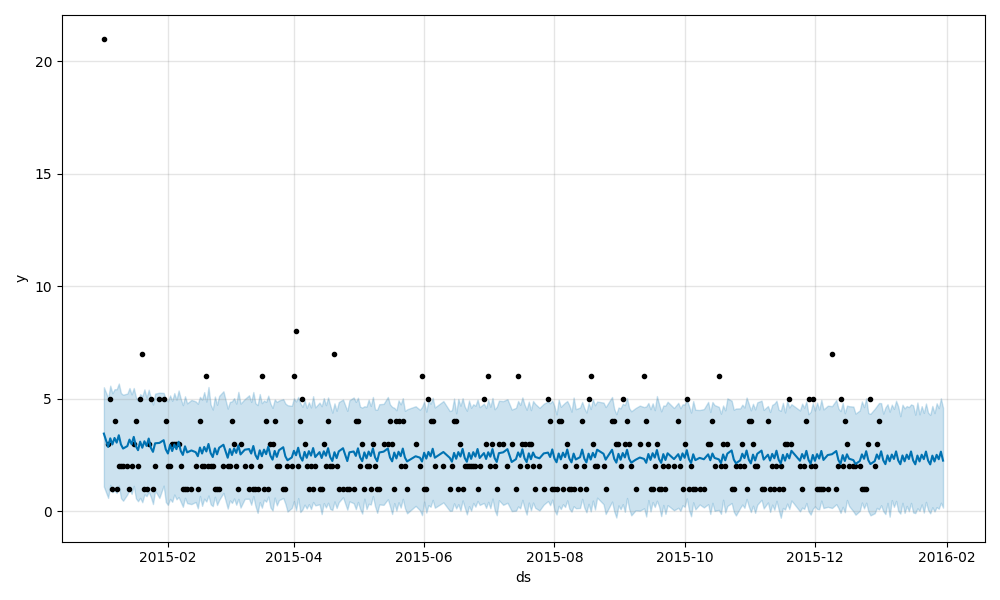
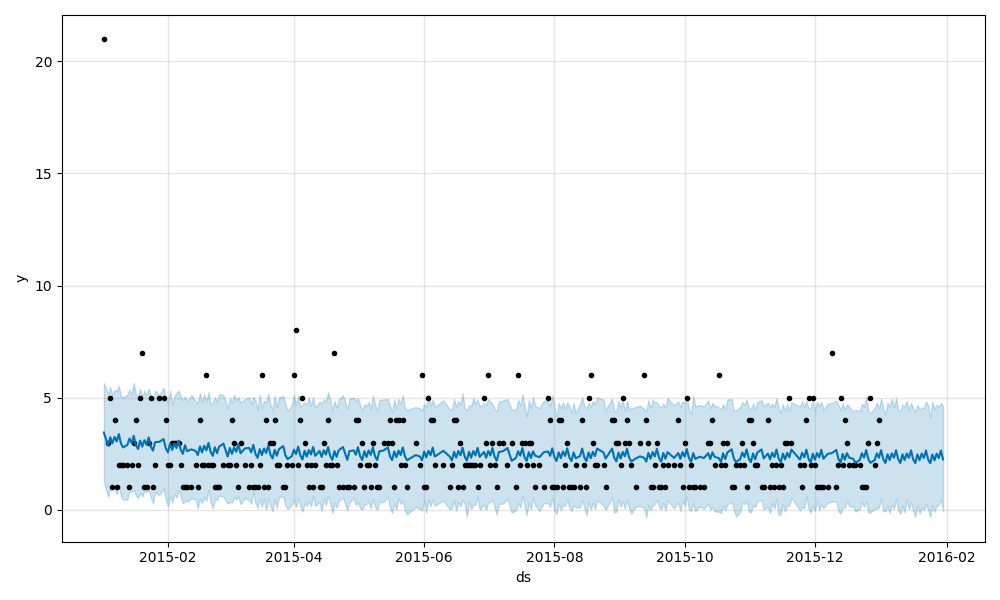
Update README and fix some files

Changed region(s): [[0.093, 0.63, 0.961, 0.87], [0.031, 0.84, 0.062, 0.87]]

diff --git a/README.md b/README.md
@@ -1,0 +1,318 @@
+# Operations Analytics & Risk Monitoring Platform
+
+## Overview
+
+This project combines operational, customer behavior, and business transaction data into a unified analytics platform built with Python, PostgreSQL, SQL, and Power BI.
+
+The goal is to create an end-to-end analytics workflow that incorporates feature engineering, forecasting, anomaly detection, and statistical analysis.
+
+The platform integrates data from three different datasets:
+
+* Azure Predictive Maintenance
+* Ecommerce Customer Behavior
+* Superstore Sales
+
+The data is cleaned and transformed using Python, stored in PostgreSQL, analyzed with SQL, and presented through interactive Power BI dashboards.
+
+In addition to traditional business intelligence reporting, the project includes machine risk scoring, operational failure forecasting, anomaly detection, and hypothesis testing to support data-driven decision-making.
+
+## Architecture
+
+The project workflow:
+
+Raw Data -> Data Cleaning & Transformation -> Feature Engineering -> PostgreSQL Data Warehouse -> SQL Analytics -> Forecasting & Anomaly Detection -> Power BI Dashboards
+
+## Datasets
+### Azure Predictive Maintenance
+Operational telemetry and maintenance data used for machine monitoring and risk analysis.
+
+Key data includes:
+
+* Telemetry measurements
+* Machine failures
+* Error events
+* Maintenance records
+
+### Ecommerce Customer Behavior
+
+Customer interaction data containing:
+
+* Product views
+* Cart additions
+* Purchases
+* User sessions
+
+It is used for funnel and conversion analysis.
+
+### Superstore Sales
+
+Business transaction dataset containing:
+
+* Orders
+* Customers
+* Products
+* Sales
+* Profit
+
+It is used for executive reporting and profitability analysis.
+
+## Project Structure
+```
+operations_analytics_and_risk_monitoring/
+
+assets/
+dashboard_screenshots/
+data/
+    raw/
+    processed/
+powerbi/
+reports/
+sql/
+src/
+    preprocessing/
+    features/
+    database/
+    models/
+README.md
+requirements.txt
+.gitignore
+.env.example
+
+```
+
+## Data Processing
+### Data Cleaning
+
+Data cleaning pipelines were implemented separately for each dataset.
+
+Tasks include:
+
+* Datetime standardization
+* Duplicate removal
+* Missing value handling
+* Column normalization
+
+Files:
+```
+src/preprocessing/clean_superstore.py
+src/preprocessing/clean_ecommerce.py
+src/preprocessing/clean_azure.py
+```
+
+## Feature Engineering
+
+Additional features were created from machine telemetry and maintenance data.
+
+Examples include:
+
+* Average Voltage
+* Average Rotation
+* Average Pressure
+* Average Vibration
+* Failure Count
+* Maintenance Count
+* Machine Risk Score
+
+Example risk score calculation:
+
+risk_score = (
+    avg_vibration * 0.4 +
+    avg_pressure * 0.3 +
+    failure_count * 0.3
+)
+
+Output:
+`data/processed/machine_features.csv`
+
+## PostgreSQL Data Warehouse
+
+Processed datasets are loaded into PostgreSQL using SQLAlchemy.
+
+Tables:
+
+* superstore_orders
+* ecommerce_events
+* machines
+* telemetry
+* failures
+* errors
+* maintenance
+* machine_features
+
+The database serves as the central layer for SQL analytics and Power BI reporting.
+
+
+## SQL Analytics
+
+SQL queries were developed to support both operational and business analysis.
+
+Examples include:
+
+* Total sales and profit
+* Regional performance analysis
+* Category profitability
+* Ecommerce funnel metrics
+* Brand engagement analysis
+* Failure frequency analysis
+* Machine risk metrics
+
+File:
+
+`sql/analytics_queries.sql`
+
+
+## Forecasting
+
+Failure forecasting was implemented using Prophet.
+
+File:
+
+`src/models/forecasting.py`
+
+Workflow:
+
+1. Aggregate daily machine failures
+2. Train forecasting model
+3. Generate 30-day forecast
+4. Export forecast outputs
+
+Outputs:
+
+`reports/failure_forecast.csv`
+`reports/failure_forecast.png`
+
+## Anomaly Detection
+
+Anomaly detection was implemented using Isolation Forest.
+
+File:
+
+`src/models/anomaly_detection.py`
+
+Input features:
+
+* Average Voltage
+* Average Rotation
+* Average Pressure
+* Average Vibration
+
+Outputs:
+```
+reports/anomaly_results.csv
+reports/anomaly_plot.png
+```
+The model identifies machines with unusual operating conditions that may require additional investigation.
+
+## Statistical Analysis
+
+A two-sample t-test was performed to compare vibration levels between normal and anomalous machines.
+
+File:
+
+`src/models/statistical_analysis.py`
+
+Result:
+
+P-value = 0.913
+
+The analysis did not find a statistically significant difference in vibration levels alone, suggesting that anomaly detection was driven by a combination of telemetry variables rather than a single measurement.
+
+Output:
+
+`reports/statistical_analysis_results.txt`
+
+## Power BI Dashboards
+### Executive Business Dashboard
+
+Business performance overview including:
+
+* Total Sales
+* Total Profit
+* Total Orders
+* Profit Margin
+* Sales by Region
+* Profit by Region
+* Profit by Category
+
+### Operations Analytics Dashboard
+
+Operational monitoring and maintenance insights including:
+
+* Total Failures 
+* Average Vibration 
+* Average Pressure 
+* Machine Risk Score 
+* Failures by Components 
+* Failures by Model 
+* Failures Trend Over Time 
+* Top 10 Machines by Failure Count 
+
+### Ecommerce Behavior Dashboard
+
+Customer activity and conversion monitoring including:
+
+* Total Purchases 
+* Total Cart Adds 
+* Total Product Views 
+* Conversion Rate 
+* User Conversion Funnel 
+* User Activity Breakdown 
+* Top 10 Products by Engagement 
+* Conversion by Brand  
+
+### Predictive Monitoring Dashboard
+
+Predictive analytics and machine monitoring including:
+
+* Detected Anomalies   
+* Average Machine Risk Score   
+* 30-Day Failure Forecast Machine Risk Anomaly Detection   
+* High-Risk Machine Watchlist   
+
+
+
+## Technology Used 
+### Programming
+* Python
+### Data Processing
+* Pandas
+* NumPy
+### Database
+* PostgreSQL
+* SQLAlchemy
+* Psycopg2
+### Analytics & Machine Learning
+* SQL
+* Scikit-Learn
+* Prophet
+* SciPy
+### Visualization
+* Power BI
+* Matplotlib
+
+
+## Running the Project
+
+Install dependencies:
+
+`pip install -r requirements.txt`
+
+Run the full analytics pipeline:
+
+`python src/run_pipeline.py`
+
+Stages:
+
+*  Cleaning
+*  Feature Engineering
+*  PostgreSQL Loading
+*  Forecasting
+*  Anomaly Detection
+*  Statistical Analysis
+
+
+## Future Improvements
+
+* Add Power BI dashboard screenshots to the README for easier visualization of business and operational insights.
+* Add a detailed system architecture diagram illustrating the end-to-end workflow.
+